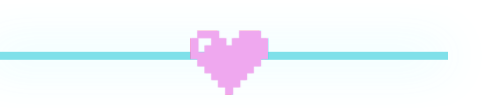
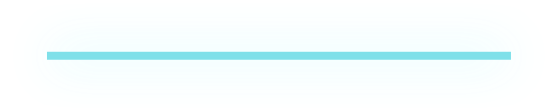
graph zooms w/ minimum borders

Changed region(s): [[0.3644, 0.2679, 0.5466, 0.8571], [0.0, 0.4554, 0.0911, 0.5357], [0.8806, 0.4554, 0.9413, 0.5357]]

diff --git a/src/scenes/ui.js b/src/scenes/ui.js
@@ -457,7 +457,7 @@ var graph = function()
   {
     var p = 100;
     var sx = lerp(self.x,gg.message_box.w+p,self.stretch);
-    var sw = lerp(self.w,gg.stage.width-gg.message_box.w-(2*p),self.stretch);
+    var sw = lerp(self.w,gg.stage.width-gg.message_box.w-p*1.2,self.stretch);
     return lerp(sx,sx+sw,t/gg.timeline.t_max);
   }
   self.stretched_x = function(x)
@@ -466,7 +466,7 @@ var graph = function()
     var max_days = 14;
     var p = 100;
     var sx = lerp(self.x,gg.message_box.w+p,self.stretch);
-    var sw = lerp(self.w,gg.stage.width-gg.message_box.w-(2*p),self.stretch);
+    var sw = lerp(self.w,gg.stage.width-gg.message_box.w-p*1.2,self.stretch);
     return min(self.x+self.w,mapVal(self.x,self.x+self.w,sx,sx+sw*lerp(1,(gg.timeline.t_max/(24*max_days)),self.stretch),x));
   }
 
@@ -479,7 +479,7 @@ var graph = function()
   {
     var t = self.stretch;
     var p = 100;
-    var sw = lerp(self.w,gg.stage.width-gg.message_box.w-(2*p),t);
+    var sw = lerp(self.w,gg.stage.width-gg.message_box.w-p*1.2,t);
     var sh = self.h;
     var sx = lerp(self.x,gg.message_box.w+p,t);
     var sy = self.y;
